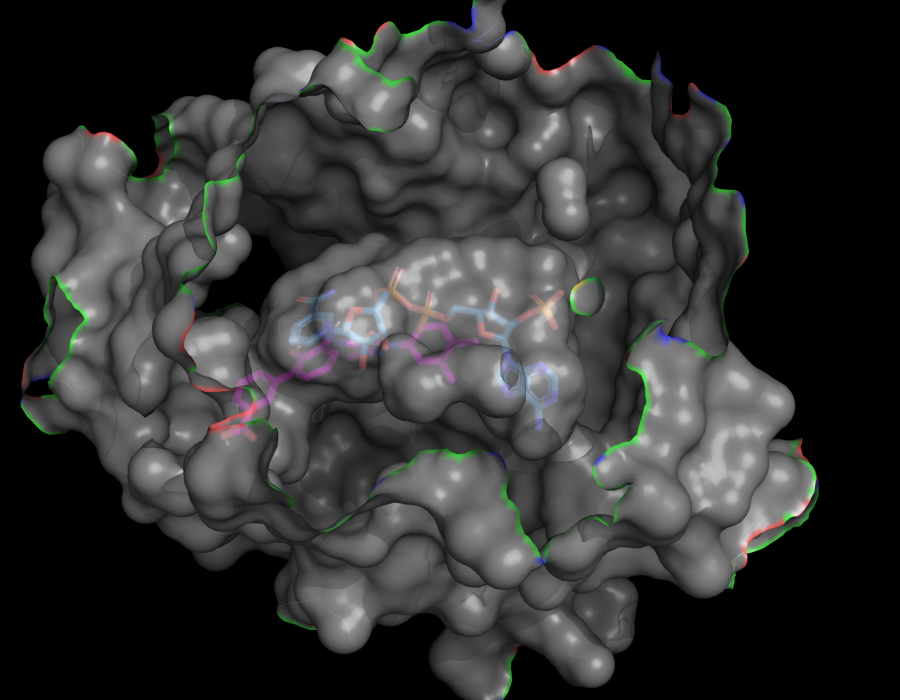
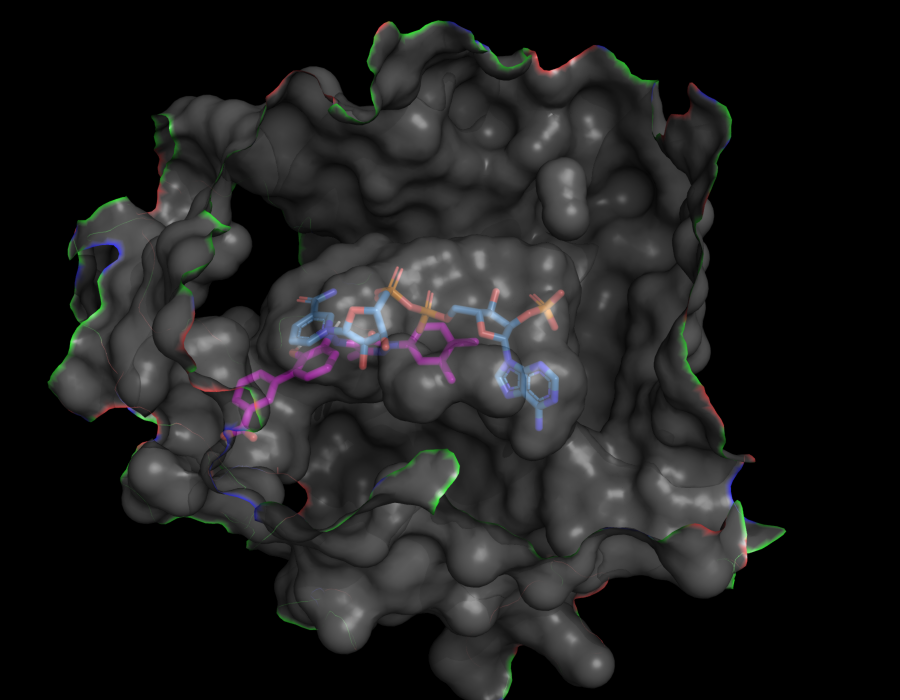
Add surface/blob-style ligand renders alongside the stick views
Render a second version of each top-10 candidate's docked pose with the
ligand shown as a solid surface ("blob") in pink (#E03FD8), matching the
pocket's own surface representation, instead of sticks
(molecularDocking/images/ptr1posesSurface/). Re-render the existing stick
views with matching pocket-surface parameters (tighter selection radius,
higher transparency) so the two styles are visually consistent when shown
together.

Pair the two renders side by side per candidate in PTR1Screen.html (still
plain HTML/CSS links, no scripting) so the stick and blob views balance
each other visually.

diff --git a/molecularDocking/PTR1Screen.html b/molecularDocking/PTR1Screen.html
@@ -98,69 +98,121 @@
       pose that's actually nonsense (a ligand clipping through the protein, or sitting half outside the pocket).
       So before trusting this list at all, I rendered the best docked pose for all 10 top hits in PyMOL, using the
       exact same camera angle and pocket view for every one, so they're directly comparable side by side. Gray is
-      the PTR1 pocket surface, blue is the NADP+ cofactor, and magenta is the docked drug — click any image to open
-      the full-size render in a new tab.</p>
+      the PTR1 pocket surface and blue is the NADP+ cofactor. Each drug gets two renders of the same pose side by
+      side: a stick view (magenta) and a surface/"blob" view (pink, #E03FD8) in the same solid style as the pocket
+      itself, so you can see both the atom-level detail and the overall shape the drug fills. Click any image to
+      open the full-size render in a new tab.</p>
       <div class="poseGrid">
-        <a href="images/ptr1poses/alectinib.png" target="_blank">
-          <div class="poseCard">
-            <img src="images/ptr1poses/alectinib.png" alt="Alectinib docked pose in the PTR1 pocket" class="poseCardImage">
-            <div class="poseCaption"><span>alectinib</span><span>-12.1 kcal/mol</span></div>
+        <div class="poseCard">
+          <div class="posePair">
+            <a href="images/ptr1poses/alectinib.png" target="_blank">
+              <img src="images/ptr1poses/alectinib.png" alt="Alectinib docked pose, stick representation" class="poseCardImage">
+            </a>
+            <a href="images/ptr1posesSurface/alectinib.png" target="_blank">
+              <img src="images/ptr1posesSurface/alectinib.png" alt="Alectinib docked pose, surface representation" class="poseCardImage">
+            </a>
           </div>
-        </a>
-        <a href="images/ptr1poses/risdiplam.png" target="_blank">
-          <div class="poseCard">
-            <img src="images/ptr1poses/risdiplam.png" alt="Risdiplam docked pose in the PTR1 pocket" class="poseCardImage">
-            <div class="poseCaption"><span>risdiplam</span><span>-11.7 kcal/mol</span></div>
+          <div class="poseCaption"><span>alectinib</span><span>-12.1 kcal/mol</span></div>
+        </div>
+        <div class="poseCard">
+          <div class="posePair">
+            <a href="images/ptr1poses/risdiplam.png" target="_blank">
+              <img src="images/ptr1poses/risdiplam.png" alt="Risdiplam docked pose, stick representation" class="poseCardImage">
+            </a>
+            <a href="images/ptr1posesSurface/risdiplam.png" target="_blank">
+              <img src="images/ptr1posesSurface/risdiplam.png" alt="Risdiplam docked pose, surface representation" class="poseCardImage">
+            </a>
           </div>
-        </a>
-        <a href="images/ptr1poses/eltrombopag.png" target="_blank">
-          <div class="poseCard">
-            <img src="images/ptr1poses/eltrombopag.png" alt="Eltrombopag docked pose in the PTR1 pocket" class="poseCardImage">
-            <div class="poseCaption"><span>eltrombopag</span><span>-11.6 kcal/mol</span></div>
+          <div class="poseCaption"><span>risdiplam</span><span>-11.7 kcal/mol</span></div>
+        </div>
+        <div class="poseCard">
+          <div class="posePair">
+            <a href="images/ptr1poses/eltrombopag.png" target="_blank">
+              <img src="images/ptr1poses/eltrombopag.png" alt="Eltrombopag docked pose, stick representation" class="poseCardImage">
+            </a>
+            <a href="images/ptr1posesSurface/eltrombopag.png" target="_blank">
+              <img src="images/ptr1posesSurface/eltrombopag.png" alt="Eltrombopag docked pose, surface representation" class="poseCardImage">
+            </a>
           </div>
-        </a>
-        <a href="images/ptr1poses/conivaptan.png" target="_blank">
-          <div class="poseCard">
-            <img src="images/ptr1poses/conivaptan.png" alt="Conivaptan docked pose in the PTR1 pocket" class="poseCardImage">
-            <div class="poseCaption"><span>conivaptan</span><span>-11.6 kcal/mol</span></div>
+          <div class="poseCaption"><span>eltrombopag</span><span>-11.6 kcal/mol</span></div>
+        </div>
+        <div class="poseCard">
+          <div class="posePair">
+            <a href="images/ptr1poses/conivaptan.png" target="_blank">
+              <img src="images/ptr1poses/conivaptan.png" alt="Conivaptan docked pose, stick representation" class="poseCardImage">
+            </a>
+            <a href="images/ptr1posesSurface/conivaptan.png" target="_blank">
+              <img src="images/ptr1posesSurface/conivaptan.png" alt="Conivaptan docked pose, surface representation" class="poseCardImage">
+            </a>
           </div>
-        </a>
-        <a href="images/ptr1poses/entrectinib.png" target="_blank">
-          <div class="poseCard">
-            <img src="images/ptr1poses/entrectinib.png" alt="Entrectinib docked pose in the PTR1 pocket" class="poseCardImage">
-            <div class="poseCaption"><span>entrectinib</span><span>-11.5 kcal/mol</span></div>
+          <div class="poseCaption"><span>conivaptan</span><span>-11.6 kcal/mol</span></div>
+        </div>
+        <div class="poseCard">
+          <div class="posePair">
+            <a href="images/ptr1poses/entrectinib.png" target="_blank">
+              <img src="images/ptr1poses/entrectinib.png" alt="Entrectinib docked pose, stick representation" class="poseCardImage">
+            </a>
+            <a href="images/ptr1posesSurface/entrectinib.png" target="_blank">
+              <img src="images/ptr1posesSurface/entrectinib.png" alt="Entrectinib docked pose, surface representation" class="poseCardImage">
+            </a>
           </div>
-        </a>
-        <a href="images/ptr1poses/dihydroergotamine.png" target="_blank">
-          <div class="poseCard">
-            <img src="images/ptr1poses/dihydroergotamine.png" alt="Dihydroergotamine docked pose in the PTR1 pocket" class="poseCardImage">
-            <div class="poseCaption"><span>dihydroergotamine</span><span>-11.5 kcal/mol</span></div>
+          <div class="poseCaption"><span>entrectinib</span><span>-11.5 kcal/mol</span></div>
+        </div>
+        <div class="poseCard">
+          <div class="posePair">
+            <a href="images/ptr1poses/dihydroergotamine.png" target="_blank">
+              <img src="images/ptr1poses/dihydroergotamine.png" alt="Dihydroergotamine docked pose, stick representation" class="poseCardImage">
+            </a>
+            <a href="images/ptr1posesSurface/dihydroergotamine.png" target="_blank">
+              <img src="images/ptr1posesSurface/dihydroergotamine.png" alt="Dihydroergotamine docked pose, surface representation" class="poseCardImage">
+            </a>
           </div>
-        </a>
-        <a href="images/ptr1poses/bexarotene.png" target="_blank">
-          <div class="poseCard">
-            <img src="images/ptr1poses/bexarotene.png" alt="Bexarotene docked pose in the PTR1 pocket" class="poseCardImage">
-            <div class="poseCaption"><span>bexarotene</span><span>-11.4 kcal/mol</span></div>
+          <div class="poseCaption"><span>dihydroergotamine</span><span>-11.5 kcal/mol</span></div>
+        </div>
+        <div class="poseCard">
+          <div class="posePair">
+            <a href="images/ptr1poses/bexarotene.png" target="_blank">
+              <img src="images/ptr1poses/bexarotene.png" alt="Bexarotene docked pose, stick representation" class="poseCardImage">
+            </a>
+            <a href="images/ptr1posesSurface/bexarotene.png" target="_blank">
+              <img src="images/ptr1posesSurface/bexarotene.png" alt="Bexarotene docked pose, surface representation" class="poseCardImage">
+            </a>
           </div>
-        </a>
-        <a href="images/ptr1poses/capmatinib.png" target="_blank">
-          <div class="poseCard">
-            <img src="images/ptr1poses/capmatinib.png" alt="Capmatinib docked pose in the PTR1 pocket" class="poseCardImage">
-            <div class="poseCaption"><span>capmatinib</span><span>-11.4 kcal/mol</span></div>
+          <div class="poseCaption"><span>bexarotene</span><span>-11.4 kcal/mol</span></div>
+        </div>
+        <div class="poseCard">
+          <div class="posePair">
+            <a href="images/ptr1poses/capmatinib.png" target="_blank">
+              <img src="images/ptr1poses/capmatinib.png" alt="Capmatinib docked pose, stick representation" class="poseCardImage">
+            </a>
+            <a href="images/ptr1posesSurface/capmatinib.png" target="_blank">
+              <img src="images/ptr1posesSurface/capmatinib.png" alt="Capmatinib docked pose, surface representation" class="poseCardImage">
+            </a>
           </div>
-        </a>
-        <a href="images/ptr1poses/tolvaptan.png" target="_blank">
-          <div class="poseCard">
-            <img src="images/ptr1poses/tolvaptan.png" alt="Tolvaptan docked pose in the PTR1 pocket" class="poseCardImage">
-            <div class="poseCaption"><span>tolvaptan</span><span>-11.3 kcal/mol</span></div>
+          <div class="poseCaption"><span>capmatinib</span><span>-11.4 kcal/mol</span></div>
+        </div>
+        <div class="poseCard">
+          <div class="posePair">
+            <a href="images/ptr1poses/tolvaptan.png" target="_blank">
+              <img src="images/ptr1poses/tolvaptan.png" alt="Tolvaptan docked pose, stick representation" class="poseCardImage">
+            </a>
+            <a href="images/ptr1posesSurface/tolvaptan.png" target="_blank">
+              <img src="images/ptr1posesSurface/tolvaptan.png" alt="Tolvaptan docked pose, surface representation" class="poseCardImage">
+            </a>
           </div>
-        </a>
-        <a href="images/ptr1poses/olaparib.png" target="_blank">
-          <div class="poseCard">
-            <img src="images/ptr1poses/olaparib.png" alt="Olaparib docked pose in the PTR1 pocket" class="poseCardImage">
-            <div class="poseCaption"><span>olaparib</span><span>-11.3 kcal/mol</span></div>
+          <div class="poseCaption"><span>tolvaptan</span><span>-11.3 kcal/mol</span></div>
+        </div>
+        <div class="poseCard">
+          <div class="posePair">
+            <a href="images/ptr1poses/olaparib.png" target="_blank">
+              <img src="images/ptr1poses/olaparib.png" alt="Olaparib docked pose, stick representation" class="poseCardImage">
+            </a>
+            <a href="images/ptr1posesSurface/olaparib.png" target="_blank">
+              <img src="images/ptr1posesSurface/olaparib.png" alt="Olaparib docked pose, surface representation" class="poseCardImage">
+            </a>
           </div>
-        </a>
+          <div class="poseCaption"><span>olaparib</span><span>-11.3 kcal/mol</span></div>
+        </div>
       </div>
       <p>This is exactly the sanity check I wanted to see: <strong>every single one of the top 10 lands in the same
       pocket</strong>, right up against the NADP+ cofactor, instead of being scattered randomly across the protein

diff --git a/styles.css b/styles.css
@@ -202,22 +202,30 @@ a{
 }
 .poseGrid{
   display: flex;
-  flex-wrap: wrap;
-  justify-content: center;
-  gap: 12px;
+  flex-direction: column;
+  gap: 14px;
   margin: 15px 0;
 }
 .poseCard{
   background-color: #0000002F;
   color: #ffffff;
-  width: 45%;
-  padding: 5px;
+  width: 95%;
+  margin: 0 auto;
+  padding: 8px;
   text-align: center;
   border: 2px solid #6b5cae;
   border-radius: 10px;
 }
 .poseCard:hover{
   background-color: #0000006F;
+}
+.posePair{
+  display: flex;
+  gap: 8px;
+}
+.posePair a{
+  flex: 1 1 0;
+  display: block;
 }
 .poseCardImage{
   display: block;
